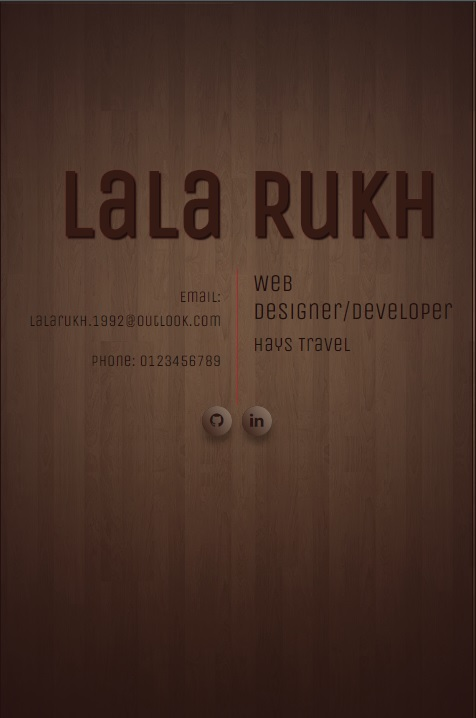
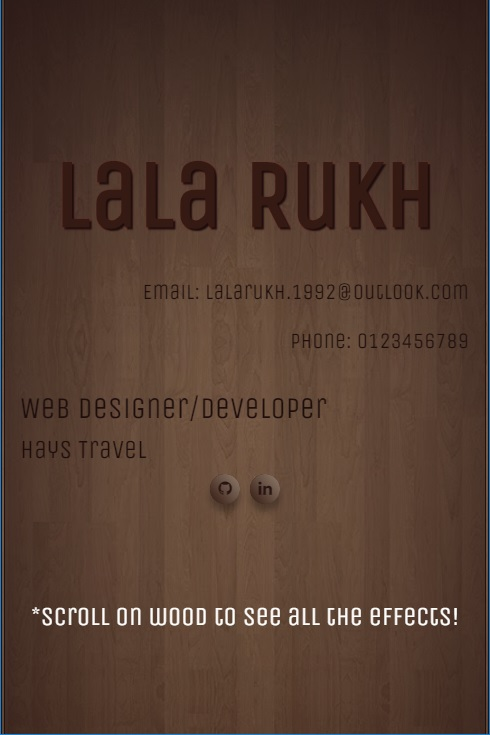
first page responsive

diff --git a/index.html b/index.html
@@ -20,7 +20,7 @@
     <section class="panel first text-center mx-auto pt-5">
         <div class="row mx-auto pt-5">
             <div class="col text-center mx-auto pt-5">
-                <h1 class="display-1 text-center ml-4">Lala Rukh</h1>
+                <h1 class="display-1 text-center">Lala Rukh</h1>
             </div>
         </div>
         <div class="row mx-auto secondRow">
@@ -47,6 +47,7 @@
                 </div>
             </div>
         </div>
+        <h5 class="mt-5 pt-5 disclaimer"> *Scroll on wood to see all the effects!</h5>
     </section>
         <section id="images" class="panel second">
             <h4 class="ml-5 pl-4 pt-5">I believe in mobile-first!  BUT...</h4>
@@ -70,7 +71,8 @@
         </section>
     <section class="panel third justify-content-center text-center">
         <h4 class="p-3 pt-4">A flat single page Design with video background and parallax but is ridiculously non-responsive!</h4>
-        <embed height="80%" width="80%" src="file:///C:/wamp2/www/parallax/lalarukh/parallax-lib/flat.html"/>
+        <h5 class="disclaimer"> *Scroll inside the box to see the design and hover over elements to see parallax effects!</h5>
+        <embed height="80%" width="80%" src="flat.html"/>
         <h4 class="text-center p-3">Really, anything's possible!</h4>
     </section>
     <section class="panel fourth text-center justify-content-center pt-5 align-middle">

diff --git a/style.css b/style.css
@@ -1,7 +1,7 @@
 html,
 body {
     margin: 0;
-    height: 100vh;
+    height: 100%;
     background-color: transparent;
 }
 #pinContainer {
@@ -34,6 +34,7 @@ body {
     font-weight: bold;
     text-shadow: 2px 2px 1px #1a0d0d, 1px 1px 2px brown;
     color: #341a12;
+    margin-left: 1.2%;
 }
 .first ul, .fourth-links ul {
     position:absolute;
@@ -81,7 +82,7 @@ body {
     color: #281412;
     transition: .5s;
 }
-.second h4,.second h5, .third h4, .fourth h1{
+.second h4,.second h5, .third h4, .fourth h1, .disclaimer{
     color: white;
 }
 .second .iphone .iphone-frame {
@@ -96,10 +97,10 @@ body {
 }
 #animate .iphone-content{
     /*position: absolute;*/
-    top: 12px;
+    top: -2px;
     left: -300px;
     width: 16.6em;
-    height: 31em;
+    height: 29.4em;
 }
 #animate .layer3 {
     opacity: 0;
@@ -263,4 +264,25 @@ span.icon {
 }
 .footer p {
     color: white;
+}
+@media only screen and (max-width: 500px)
+{
+    body,html {
+        height: 120%;
+    }
+    .first p {
+        font-size: 22px;
+    }
+    .first h4 {
+        font-size: 30px;
+    }
+    .first h5 {
+        font-size: 26px;
+    }
+    .first .borderMiddle {
+        border-left: none;
+    }
+    .first h1 {
+        margin-left: 0.1%;
+    }
 }

diff --git a/script.js b/script.js
@@ -4,7 +4,7 @@
         let wipeAnimation = new TimelineMax()
             .fromTo("section.panel.second", 1, {x: "100%"}, {x: "0%", ease: Linear.easeNone})  // in from left
             .fromTo("section.panel.third",    1, {x:  "-120%"}, {x: "0%", ease: Linear.easeNone})  // in from right
-            .fromTo("section.panel.fourth", 1, {y: "-120%"}, {y: "0%", ease: Linear.easeNone}); // in from top
+            .fromTo("section.panel.fourth", 1, {y: "-100%"}, {y: "0%", ease: Linear.easeNone}); // in from top
         new ScrollMagic.Scene({
             triggerElement: "#pinContainer",
             triggerHook: "onLeave",
@@ -41,7 +41,7 @@
 
         // Text Effects
         var tween_2 = new TimelineMax();
-        tween_2.to($('.text'), 0.9, {y: '300%', ease:Linear.easeInOut});
+        tween_2.to($('.text'), 0.9, {y: '250%', ease:Linear.easeInOut});
         var introScene = new ScrollMagic.Scene({
             triggerElement: '.fourth',
             triggerHook: 0,
